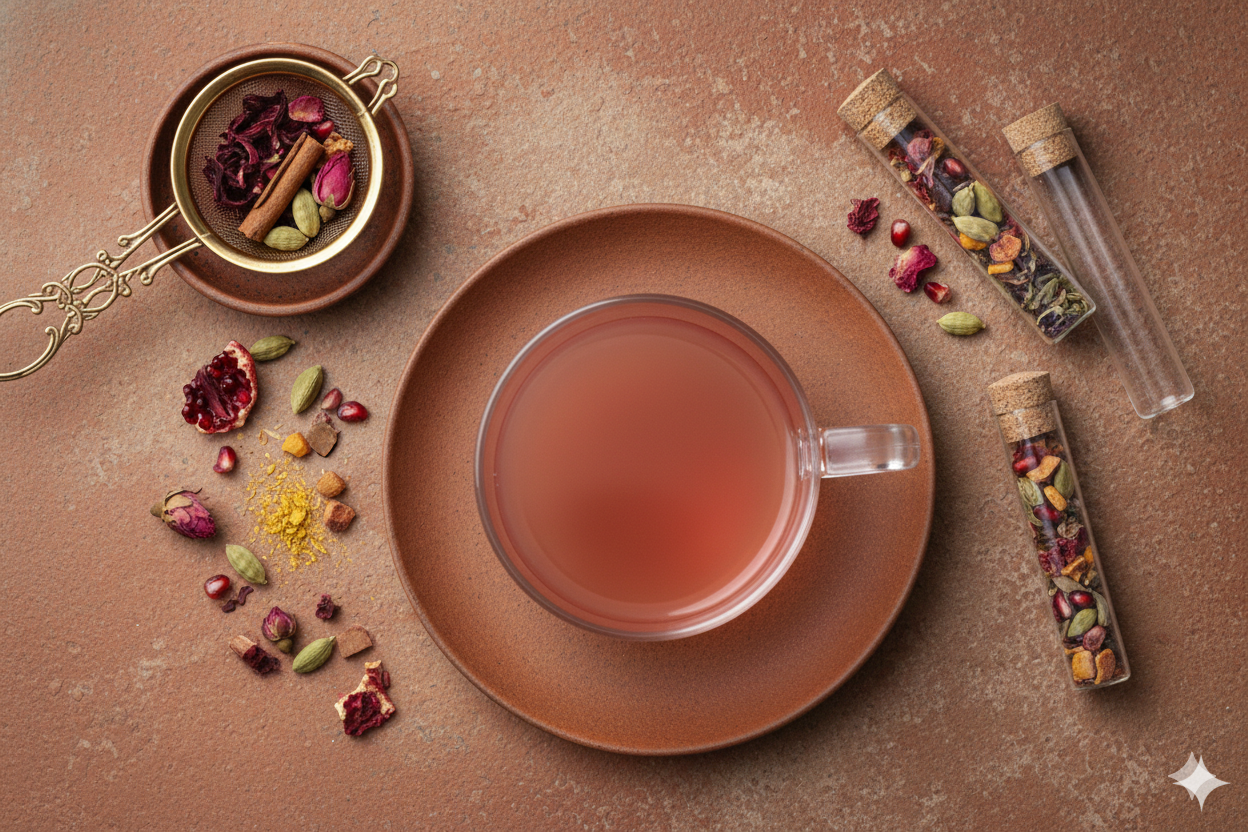
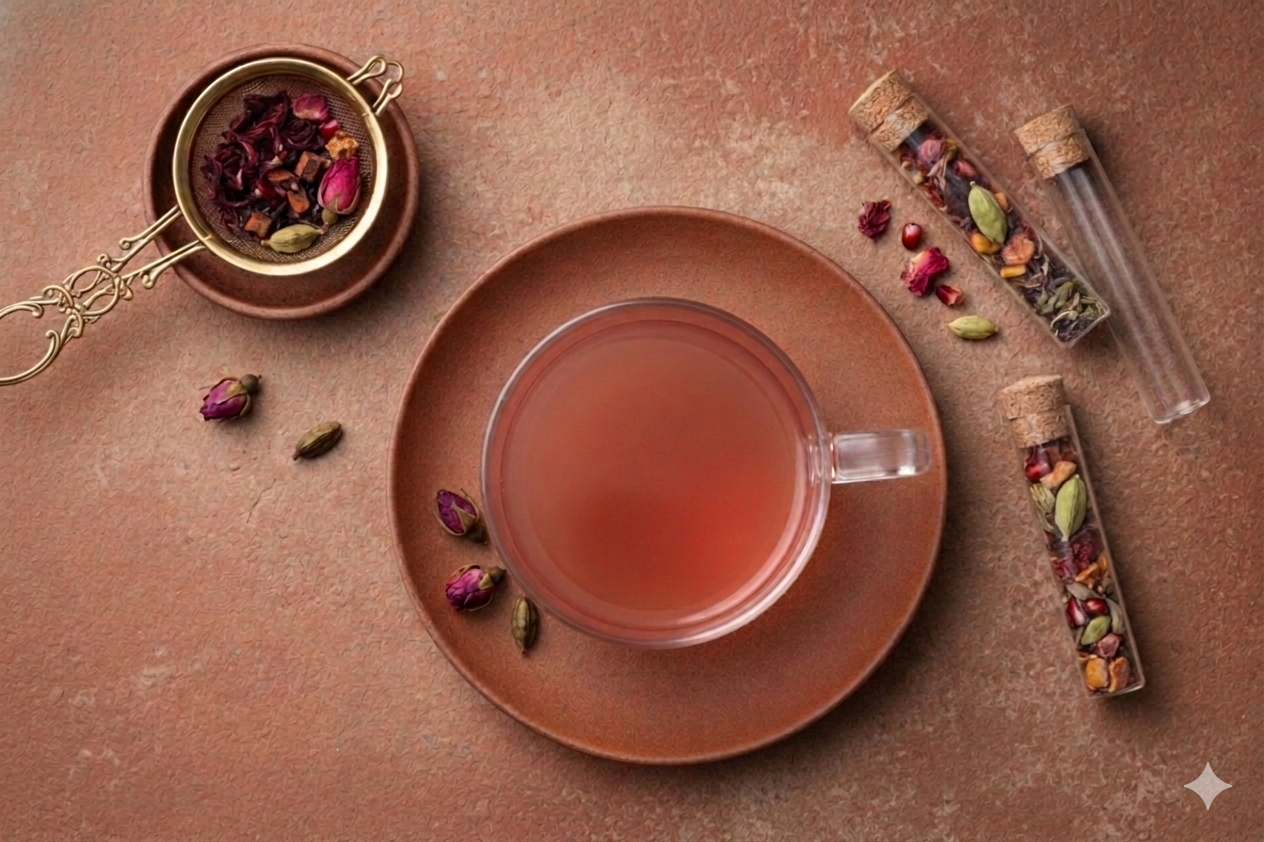
shakthi

diff --git a/shakti-peya.html b/shakti-peya.html
@@ -99,22 +99,21 @@
                     <div class="col-half" style="display: flex; flex-direction: column; justify-content: center;">
                         <h3>How to Use</h3>
 
-                        <p>The Ritual of Shakti Peya</p>
+                        <p class="sub-heading">The Ritual of Shakti Peya</p>
                         <p>To prepare this revitalizing infusion, begin by emptying the contents of a single test tube
                             into two cups of fresh water. Bring to a rolling boil for two to three minutes, allowing the
                             eleven botanical ingredients to release their essence, then turn off the heat and let the
                             tea rest for three to four minutes to reach its full potency. Once brewed, strain the liquid
-                            into your cup to reveal its signature pink hue. <br><br>
-                            For optimal benefits, enjoy this vitalizing blend in the morning before breakfast to awaken
-                            the senses, or during a quiet afternoon tea to restore your energy.</p>
+                            into your cup to reveal its signature pink hue.</p>
                         <hr class="section-divider">
-                        <p>Best Times to Enjoy</p>
-                        <p>Morning: Consume before breakfast to awaken your digestive fire and clarify your mind<br>
-                            Afternoon: Enjoy during tea time for a natural, caffeine-free energy boost to finish your
-                            day strong</p>
+                        <p class="sub-heading">Best Times to Enjoy</p>
+                        <p>Morning: Consume before breakfast to awaken your senses and the digestive fire.
+                            <br>
+                            Afternoon: Enjoy during tea time for a natural, caffeine-free energy boost.
+                        </p>
                         <hr class="section-divider">
 
-                        <p>Dosage</p>
+                        <p class="sub-heading">Dosage</p>
                         <p>One test tube per day</p>
                     </div>
                 </div>

diff --git a/style.css b/style.css
@@ -94,6 +94,10 @@ p {
     font-size: 1.3rem;
 }
 
+.sub-heading {
+    font-weight: 450;
+}
+
 a {
     text-decoration: none;
     color: inherit;
